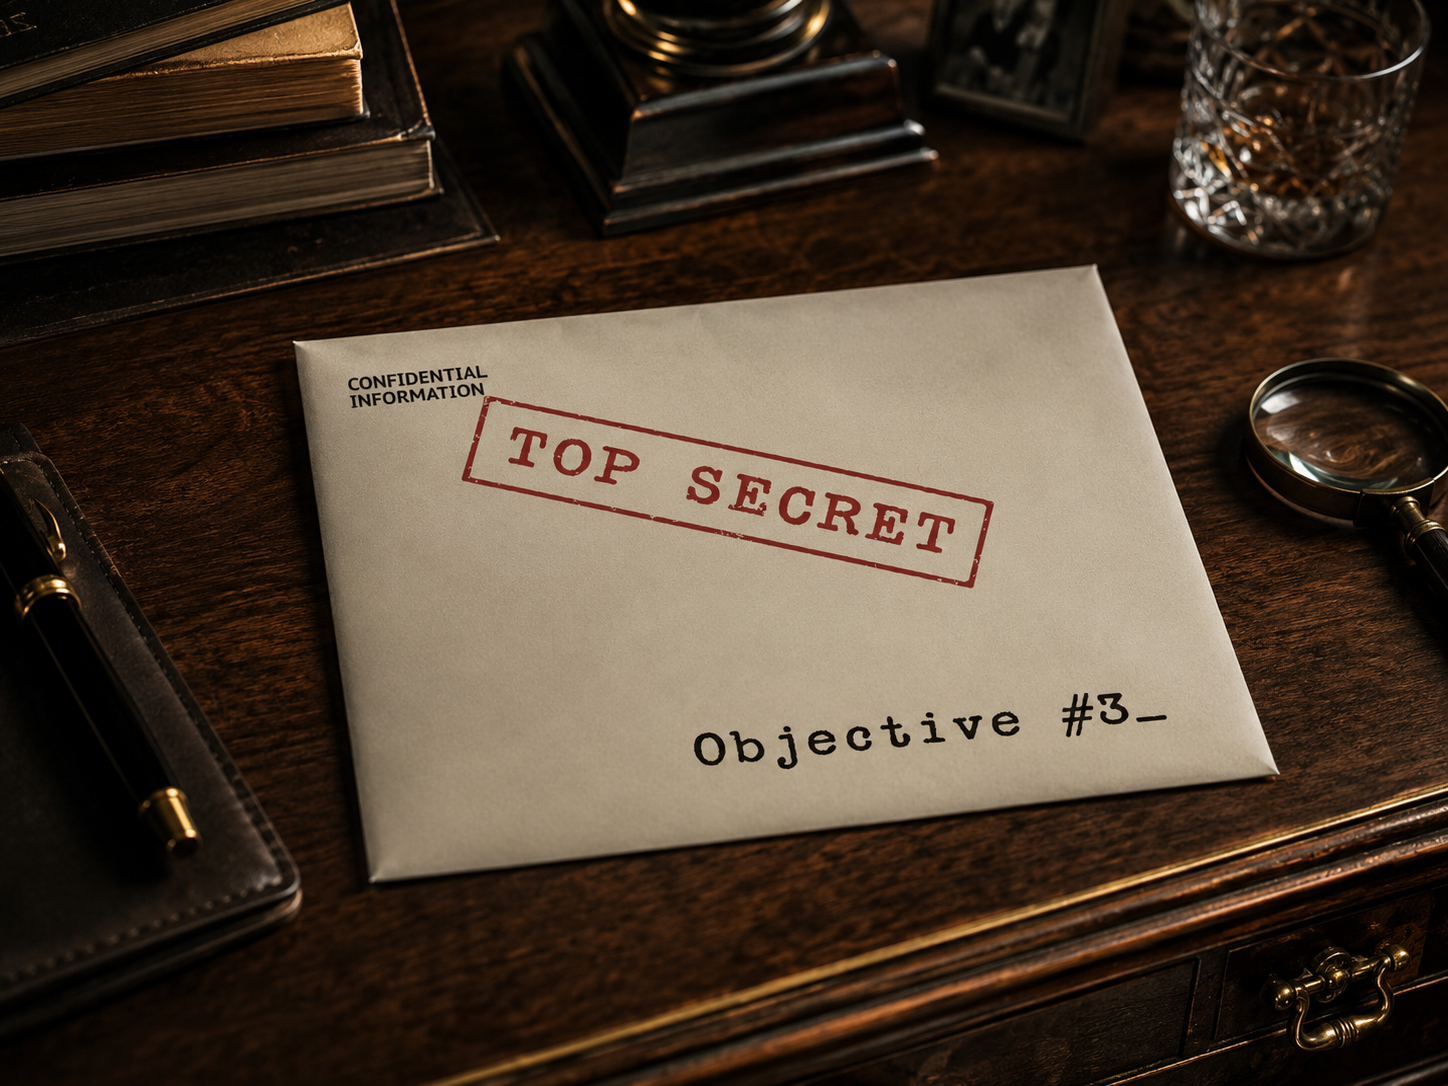
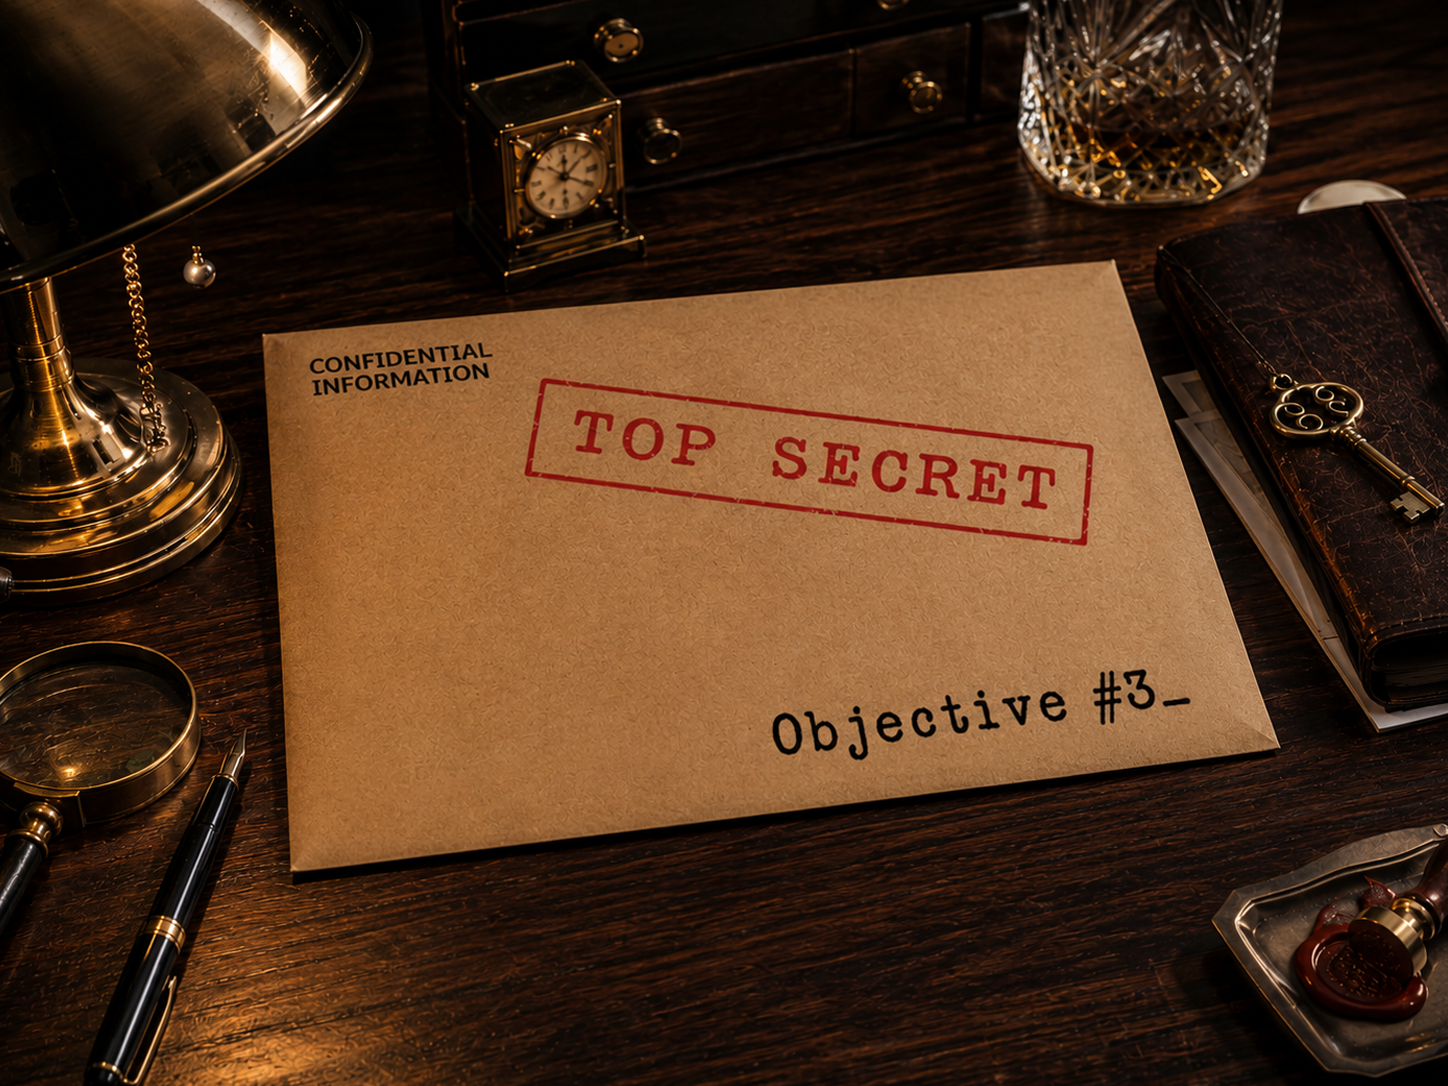
Updates

diff --git a/cctv-password.html b/cctv-password.html
@@ -255,7 +255,7 @@
       var form = document.getElementById('cctv-form');
       var input = document.getElementById('cctv-password');
       if (!form || !input) return;
-      var CORRECT = 'FR0237578';
+      var CORRECT = 'Shakespeare';
       form.addEventListener('submit', function (event) {
         event.preventDefault();
         var value = input.value.trim();